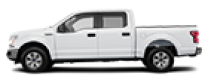
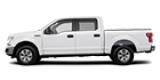
modified truck image resolution and fixed the responsiveness of the vehicles container for multiple screens

diff --git a/apps/home/src/modules/home/TDA/components/VehicleSearch/View.tsx b/apps/home/src/modules/home/TDA/components/VehicleSearch/View.tsx
@@ -8,9 +8,9 @@ import ExternalLink from 'src/ui/ExternalLink';
 
 const ViewContainer = styled('div')(({ theme }) => ({
   width: '100%',
-  padding: theme.spacing(8, 2),
+  padding: theme.spacing(8, 0),
   textAlign: 'center',
-  background: '#FFF',
+  background: '#fff',
 }));
 
 const Title = styled(Typography)(({ theme }) => ({
@@ -22,20 +22,25 @@ const Title = styled(Typography)(({ theme }) => ({
 
 const VehiclesContainer = styled('div')(() => ({
   display: 'flex',
-  flexDirection: 'row',
   justifyContent: 'center',
   flexWrap: 'wrap',
 }));
 
 const VehicleContainer = styled('div')(({ theme }) => ({
-  padding: theme.spacing(4),
+  padding: theme.spacing(2, 4),
+  [theme.breakpoints.down('md')]: {
+    flexBasis: '20%',
+  },
   [theme.breakpoints.only('xs')]: {
     padding: theme.spacing(2),
   },
 }));
 
 const VehicleLink = styled(ExternalLink)(() => ({
-  color: 'black',
+  color: '#000',
+  '&:hover': {
+    color: 'red',
+  },
 }));
 
 const VehicleImage = styled('img')(({ theme }) => ({
